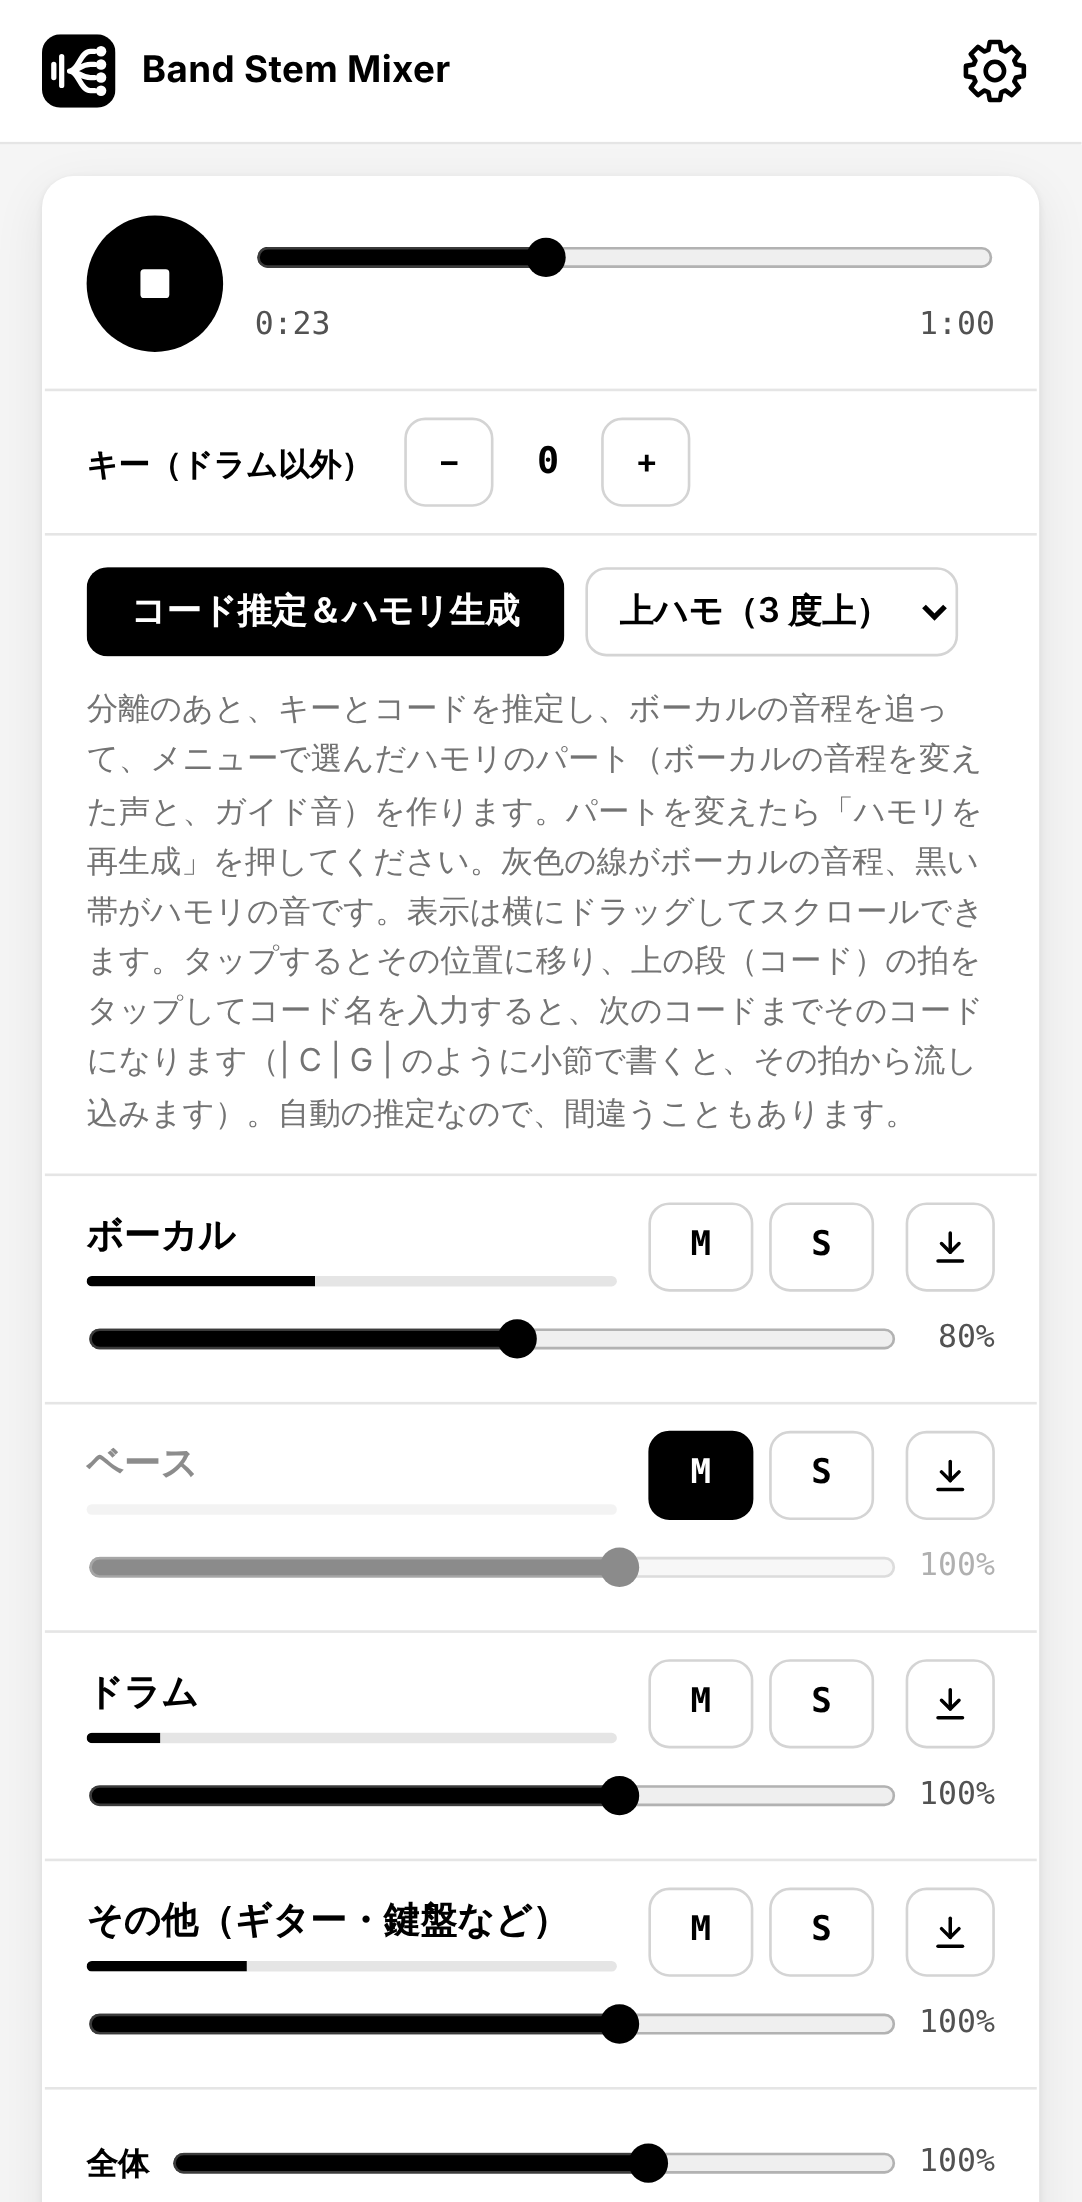
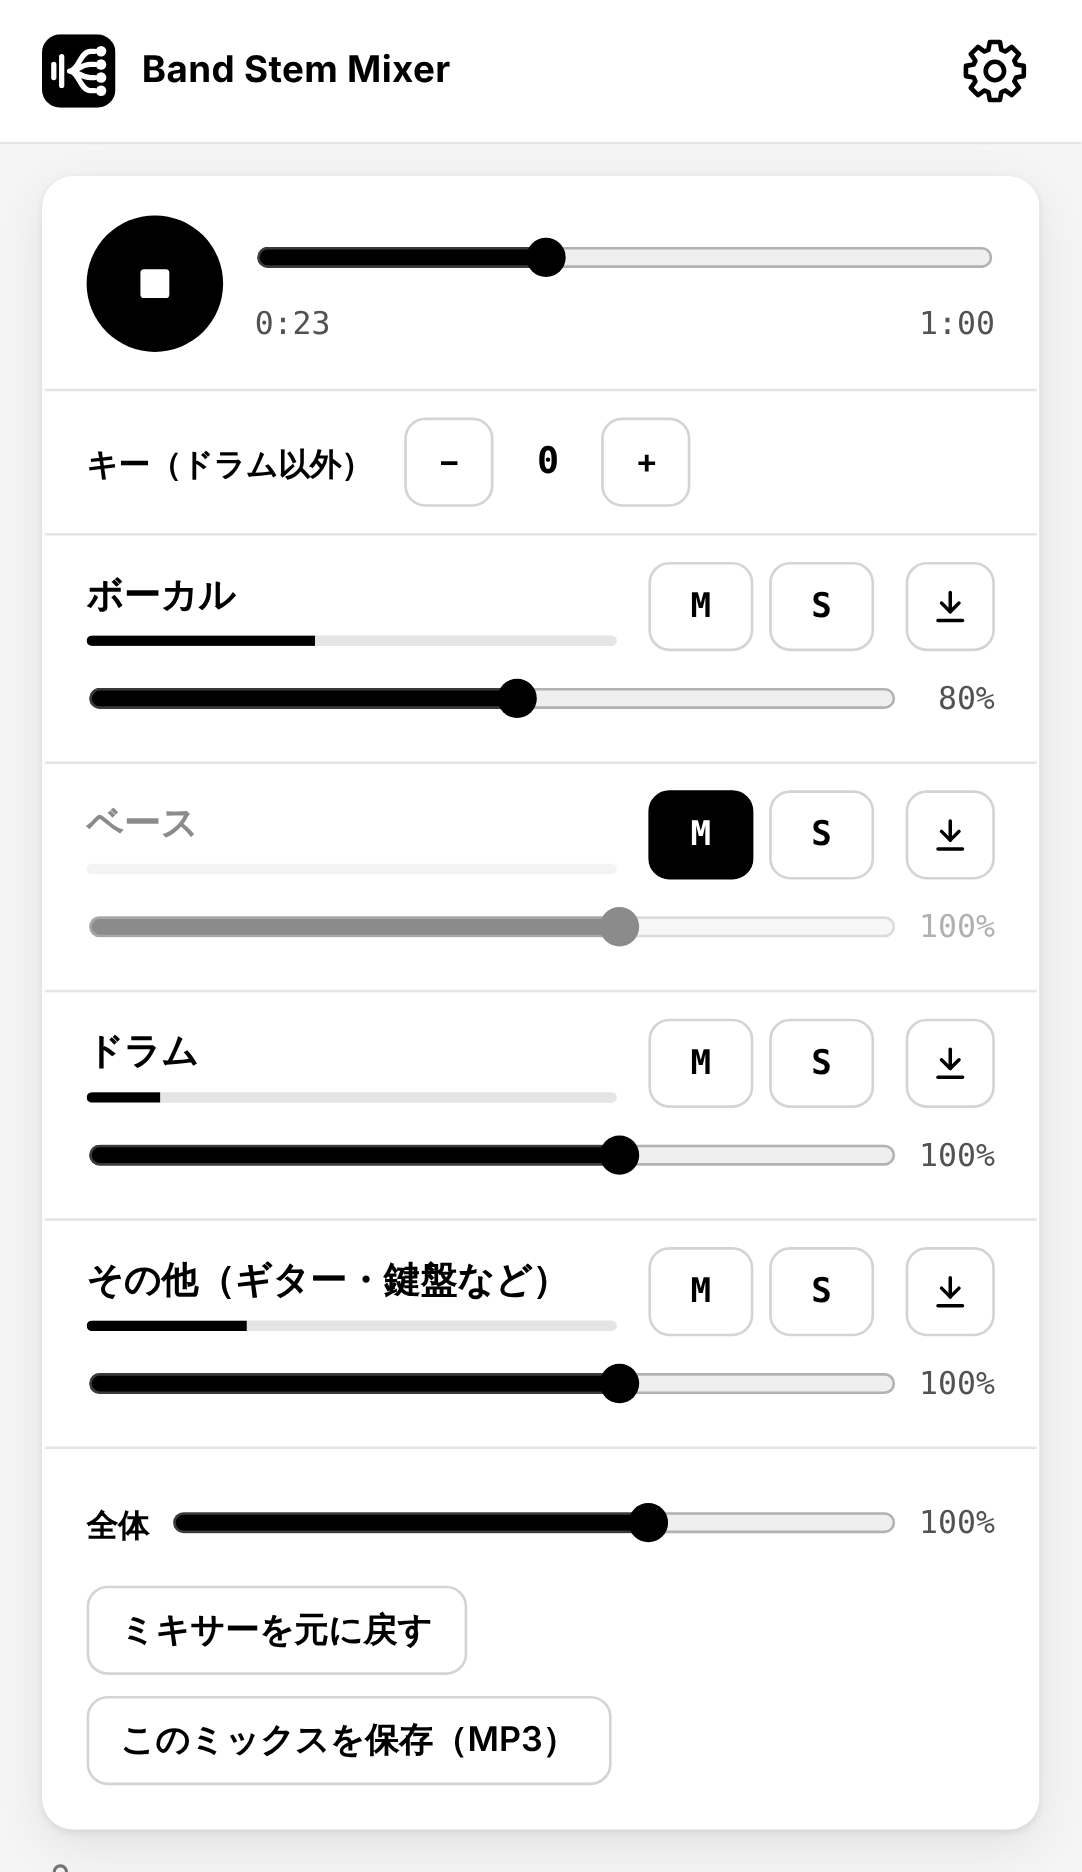
再生を ▶／❚❚ の切り替えと ■（停止して最初に戻る）に（WEBAPP_BASELINE §9-15）、日本語のキー操作の案内を 1〜4 に
Claude-Session: https://claude.ai/code/session_01FBcjAdSHZxa59AhVPsv9QX

diff --git a/public/bandstemmixer/ja/index.html b/public/bandstemmixer/ja/index.html
@@ -297,10 +297,11 @@
         </div>
         <div id="mixer" class="ghost" inert>
           <div class="transport">
-            <button class="play" id="playBtn" type="button" aria-label="再生" data-i18n-attr="aria-label:play">
+            <button class="play" id="playBtn" type="button" aria-label="再生" title="再生" data-i18n-attr="aria-label:play;title:play">
               <svg id="playIcon" width="22" height="22" viewBox="0 0 24 24" fill="currentColor" aria-hidden="true"><path d="M7 4.5v15l13-7.5z"></path></svg>
-              <svg id="pauseIcon" width="22" height="22" viewBox="0 0 24 24" fill="currentColor" aria-hidden="true" hidden><rect x="6" y="6" width="12" height="12" rx="1.5"></rect></svg>
+              <svg id="pauseIcon" width="22" height="22" viewBox="0 0 24 24" fill="currentColor" aria-hidden="true" hidden><rect x="6" y="5" width="4" height="14" rx="1"></rect><rect x="14" y="5" width="4" height="14" rx="1"></rect></svg>
             </button>
+            <button class="chip sq" id="stopBtn" type="button" aria-label="停止（最初に戻る）" title="停止（最初に戻る）" data-i18n-attr="aria-label:stop;title:stop"><svg width="14" height="14" viewBox="0 0 24 24" fill="currentColor" aria-hidden="true"><rect x="5" y="5" width="14" height="14" rx="1.5"></rect></svg></button>
             <div class="seek">
               <input type="range" id="seek" min="0" max="1" step="0.1" value="0" aria-label="再生位置" data-i18n-attr="aria-label:position" />
               <div class="time"><span id="timeNow">0:00</span><span id="timeEnd">0:00</span></div>
@@ -324,7 +325,7 @@
               <button class="chip save-btn" id="saveMix" type="button" data-i18n="mix.save">このミックスを保存（MP3）</button>
             </div>
           </div>
-          <p class="keys" data-i18n-html="keys"><kbd>Space</kbd> 再生・一時停止 · <kbd>1</kbd>〜<kbd>6</kbd> パートのミュート · <kbd>←</kbd> <kbd>→</kbd> 5 秒戻る・進む</p>
+          <p class="keys" data-i18n-html="keys"><kbd>Space</kbd> 再生・一時停止 · <kbd>Home</kbd> 停止 · <kbd>1</kbd>〜<kbd>4</kbd> パートのミュート · <kbd>←</kbd> <kbd>→</kbd> 5 秒戻る・進む</p>
         </div>
       </section>
     </div>
@@ -489,7 +490,8 @@
           "empty.title": "After separating, you can use this mixer",
           "empty": "Mute (M), solo (S), and set the volume of each part to play along with the band or learn a part by ear. Change the key and save MP3 files too.",
           "play": "Play",
-          "pause": "Stop",
+          "pause": "Pause",
+          "stop": "Stop (back to the start)",
           "position": "Position",
           "master": "Master",
           "mix.reset": "Reset mixer",
@@ -514,7 +516,7 @@
           "key.done": "Key changed ({n}).",
           "key.err": "The key could not be changed ({msg}).",
           "save.key": " (key {n})",
-          "keys": "<kbd>Space</kbd> play / pause · <kbd>1</kbd>–<kbd>4</kbd> mute a part · <kbd>←</kbd> <kbd>→</kbd> 5 seconds back / forward",
+          "keys": "<kbd>Space</kbd> play / pause · <kbd>Home</kbd> stop · <kbd>1</kbd>–<kbd>4</kbd> mute a part · <kbd>←</kbd> <kbd>→</kbd> 5 seconds back / forward",
           "foot": "Your song is separated on this device and never uploaded. No account needed.",
           "net.title.cellular": "You seem to be on mobile data",
           "net.title.saveData": "Data Saver is on",
@@ -605,7 +607,8 @@
           "empty.title": "分離すると、このミキサーが使えます",
           "empty": "パートごとのミュート（M）・ソロ（S）・音量で、自分のパートを消してバンドに合わせたり、耳コピしたりできます。キーの変更、MP3 での保存も。",
           "play": "再生",
-          "pause": "停止",
+          "pause": "一時停止",
+          "stop": "停止（最初に戻る）",
           "position": "再生位置",
           "master": "全体",
           "mix.reset": "ミキサーを元に戻す",
@@ -630,7 +633,7 @@
           "key.done": "キーを変えました（{n}）。",
           "key.err": "キーを変えられませんでした（{msg}）。",
           "save.key": "（キー {n}）",
-          "keys": "<kbd>Space</kbd> 再生・一時停止 · <kbd>1</kbd>〜<kbd>6</kbd> パートのミュート · <kbd>←</kbd> <kbd>→</kbd> 5 秒戻る・進む",
+          "keys": "<kbd>Space</kbd> 再生・一時停止 · <kbd>Home</kbd> 停止 · <kbd>1</kbd>〜<kbd>4</kbd> パートのミュート · <kbd>←</kbd> <kbd>→</kbd> 5 秒戻る・進む",
           "foot": "曲はこの端末の中で分離し、どこにもアップロードしません。登録も不要です。",
           "net.title.cellular": "モバイルデータ通信に接続しているようです",
           "net.title.saveData": "データセーバーがオンになっています",
@@ -1229,6 +1232,7 @@
         $("playIcon").toggleAttribute("hidden", on);
         $("pauseIcon").toggleAttribute("hidden", !on);
         $("playBtn").setAttribute("aria-label", t(on ? "pause" : "play"));
+        $("playBtn").title = t(on ? "pause" : "play");
         if (!on) meters.forEach(function (m) { m.style.width = "0"; });
       }
       function togglePlay() {
@@ -1257,7 +1261,14 @@
         $("seek").value = (pos / SR).toFixed(1);
         $("timeNow").textContent = fmtTime(pos / SR);
       }
+      // ■: stop and go back to the start (WEBAPP_BASELINE §9-15); ❚❚ keeps the position
+      function stopToStart() {
+        if (!stems) return;
+        stopPlayback();
+        seekTo(0);
+      }
       $("playBtn").addEventListener("click", togglePlay);
+      $("stopBtn").addEventListener("click", stopToStart);
       const seek = $("seek");
       seek.addEventListener("input", function () {
         seeking = true;
@@ -1565,6 +1576,9 @@
         if (e.key === " " && tag !== "BUTTON") {
           e.preventDefault();
           togglePlay();
+        } else if (e.key === "Home" && tag !== "INPUT") {
+          e.preventDefault();
+          stopToStart();
         } else if (/^[1-9]$/.test(e.key) && tracks[Number(e.key) - 1]) {
           const p = tracks[Number(e.key) - 1];
           store.parts[p.key].mute = !store.parts[p.key].mute;

diff --git a/public/bandstemmixer/index.html b/public/bandstemmixer/index.html
@@ -295,10 +295,11 @@
         </div>
         <div id="mixer" class="ghost" inert>
           <div class="transport">
-            <button class="play" id="playBtn" type="button" aria-label="Play" data-i18n-attr="aria-label:play">
+            <button class="play" id="playBtn" type="button" aria-label="Play" title="Play" data-i18n-attr="aria-label:play;title:play">
               <svg id="playIcon" width="22" height="22" viewBox="0 0 24 24" fill="currentColor" aria-hidden="true"><path d="M7 4.5v15l13-7.5z"></path></svg>
-              <svg id="pauseIcon" width="22" height="22" viewBox="0 0 24 24" fill="currentColor" aria-hidden="true" hidden><rect x="6" y="6" width="12" height="12" rx="1.5"></rect></svg>
+              <svg id="pauseIcon" width="22" height="22" viewBox="0 0 24 24" fill="currentColor" aria-hidden="true" hidden><rect x="6" y="5" width="4" height="14" rx="1"></rect><rect x="14" y="5" width="4" height="14" rx="1"></rect></svg>
             </button>
+            <button class="chip sq" id="stopBtn" type="button" aria-label="Stop" title="Stop" data-i18n-attr="aria-label:stop;title:stop"><svg width="14" height="14" viewBox="0 0 24 24" fill="currentColor" aria-hidden="true"><rect x="5" y="5" width="14" height="14" rx="1.5"></rect></svg></button>
             <div class="seek">
               <input type="range" id="seek" min="0" max="1" step="0.1" value="0" aria-label="Position" data-i18n-attr="aria-label:position" />
               <div class="time"><span id="timeNow">0:00</span><span id="timeEnd">0:00</span></div>
@@ -322,7 +323,7 @@
               <button class="chip save-btn" id="saveMix" type="button" data-i18n="mix.save">Save this mix (MP3)</button>
             </div>
           </div>
-          <p class="keys" data-i18n-html="keys"><kbd>Space</kbd> play / pause · <kbd>1</kbd>–<kbd>4</kbd> mute a part · <kbd>←</kbd> <kbd>→</kbd> 5 seconds back / forward</p>
+          <p class="keys" data-i18n-html="keys"><kbd>Space</kbd> play / pause · <kbd>Home</kbd> stop · <kbd>1</kbd>–<kbd>4</kbd> mute a part · <kbd>←</kbd> <kbd>→</kbd> 5 seconds back / forward</p>
         </div>
       </section>
     </div>
@@ -495,7 +496,8 @@
           "empty.title": "After separating, you can use this mixer",
           "empty": "Mute (M), solo (S), and set the volume of each part to play along with the band or learn a part by ear. Change the key and save MP3 files too.",
           "play": "Play",
-          "pause": "Stop",
+          "pause": "Pause",
+          "stop": "Stop (back to the start)",
           "position": "Position",
           "master": "Master",
           "mix.reset": "Reset mixer",
@@ -520,7 +522,7 @@
           "key.done": "Key changed ({n}).",
           "key.err": "The key could not be changed ({msg}).",
           "save.key": " (key {n})",
-          "keys": "<kbd>Space</kbd> play / pause · <kbd>1</kbd>–<kbd>4</kbd> mute a part · <kbd>←</kbd> <kbd>→</kbd> 5 seconds back / forward",
+          "keys": "<kbd>Space</kbd> play / pause · <kbd>Home</kbd> stop · <kbd>1</kbd>–<kbd>4</kbd> mute a part · <kbd>←</kbd> <kbd>→</kbd> 5 seconds back / forward",
           "foot": "Your song is separated on this device and never uploaded. No account needed.",
           "net.title.cellular": "You seem to be on mobile data",
           "net.title.saveData": "Data Saver is on",
@@ -611,7 +613,8 @@
           "empty.title": "分離すると、このミキサーが使えます",
           "empty": "パートごとのミュート（M）・ソロ（S）・音量で、自分のパートを消してバンドに合わせたり、耳コピしたりできます。キーの変更、MP3 での保存も。",
           "play": "再生",
-          "pause": "停止",
+          "pause": "一時停止",
+          "stop": "停止（最初に戻る）",
           "position": "再生位置",
           "master": "全体",
           "mix.reset": "ミキサーを元に戻す",
@@ -636,7 +639,7 @@
           "key.done": "キーを変えました（{n}）。",
           "key.err": "キーを変えられませんでした（{msg}）。",
           "save.key": "（キー {n}）",
-          "keys": "<kbd>Space</kbd> 再生・一時停止 · <kbd>1</kbd>〜<kbd>6</kbd> パートのミュート · <kbd>←</kbd> <kbd>→</kbd> 5 秒戻る・進む",
+          "keys": "<kbd>Space</kbd> 再生・一時停止 · <kbd>Home</kbd> 停止 · <kbd>1</kbd>〜<kbd>4</kbd> パートのミュート · <kbd>←</kbd> <kbd>→</kbd> 5 秒戻る・進む",
           "foot": "曲はこの端末の中で分離し、どこにもアップロードしません。登録も不要です。",
           "net.title.cellular": "モバイルデータ通信に接続しているようです",
           "net.title.saveData": "データセーバーがオンになっています",
@@ -1235,6 +1238,7 @@
         $("playIcon").toggleAttribute("hidden", on);
         $("pauseIcon").toggleAttribute("hidden", !on);
         $("playBtn").setAttribute("aria-label", t(on ? "pause" : "play"));
+        $("playBtn").title = t(on ? "pause" : "play");
         if (!on) meters.forEach(function (m) { m.style.width = "0"; });
       }
       function togglePlay() {
@@ -1263,7 +1267,14 @@
         $("seek").value = (pos / SR).toFixed(1);
         $("timeNow").textContent = fmtTime(pos / SR);
       }
+      // ■: stop and go back to the start (WEBAPP_BASELINE §9-15); ❚❚ keeps the position
+      function stopToStart() {
+        if (!stems) return;
+        stopPlayback();
+        seekTo(0);
+      }
       $("playBtn").addEventListener("click", togglePlay);
+      $("stopBtn").addEventListener("click", stopToStart);
       const seek = $("seek");
       seek.addEventListener("input", function () {
         seeking = true;
@@ -1571,6 +1582,9 @@
         if (e.key === " " && tag !== "BUTTON") {
           e.preventDefault();
           togglePlay();
+        } else if (e.key === "Home" && tag !== "INPUT") {
+          e.preventDefault();
+          stopToStart();
         } else if (/^[1-9]$/.test(e.key) && tracks[Number(e.key) - 1]) {
           const p = tracks[Number(e.key) - 1];
           store.parts[p.key].mute = !store.parts[p.key].mute;

diff --git a/public/bandstemmixer/ja/guide/index.html b/public/bandstemmixer/ja/guide/index.html
@@ -231,11 +231,11 @@
 
 <h2 id="mixer">ミキサー</h2>
 <figure class="shot">
-  <a href="/bandstemmixer/images/guide/ja-mixer.png"><img src="/bandstemmixer/images/guide/ja-mixer.png" alt="再生中のミキサー。停止ボタンと再生位置（1:00 のうち 0:21）、キーの − ＋、ボーカル（80%）・ベース（ミュート）・ドラム・その他（ギター・鍵盤など）の 4 行に、それぞれレベルメーター、M と S のボタン、フェーダー、保存ボタン。下に全体の音量、「ミキサーを元に戻す」「このミックスを保存（MP3）」。1〜10 の番号付き。" width="1548" height="1327" loading="lazy" decoding="async"></a>
+  <a href="/bandstemmixer/images/guide/ja-mixer.png"><img src="/bandstemmixer/images/guide/ja-mixer.png" alt="再生中のミキサー。一時停止と停止のボタンと再生位置（1:00 のうち 0:21）、キーの − ＋、ボーカル（80%）・ベース（ミュート）・ドラム・その他（ギター・鍵盤など）の 4 行に、それぞれレベルメーター、M と S のボタン、フェーダー、保存ボタン。下に全体の音量、「ミキサーを元に戻す」「このミックスを保存（MP3）」。1〜10 の番号付き。" width="1548" height="993" loading="lazy" decoding="async"></a>
   <figcaption>ベーシストの練習のように、ベースをミュート（M）し、ボーカルを 80% に下げたところ。</figcaption>
 </figure>
 <ol>
-  <li><b>再生・停止</b> – 再生中は ■ になります。もう一度押すと止まり、次の再生は止めた位置から始まります。</li>
+  <li><b>▶ 再生・❚❚ 一時停止</b> – 再生中は ❚❚ になります。押すと一時停止し、次の再生は止めた位置から始まります。隣の <b>■</b> は、止めて曲の最初に戻ります。</li>
   <li><b>再生位置</b> – ドラッグして曲の中を移動します。</li>
   <li><b>パートとレベル</b> – 名前の下のバーが、そのパートの音に合わせて動きます。</li>
   <li><b>M（ミュート）</b> – そのパートを消します。ここではベースをミュートしています。</li>
@@ -264,7 +264,7 @@
 
 <h2 id="phone">スマホ・タブレットで使う</h2>
 <figure class="shot phone">
-  <a href="/bandstemmixer/images/guide/ja-phone.png"><img src="/bandstemmixer/images/guide/ja-phone.png" alt="スマホでの Band Stem Mixer。再生ボタンと再生位置、キー、パートの行に M・S・保存ボタン、名前の下にフェーダー。" width="1082" height="2202" loading="lazy" decoding="async" style="max-width:541px"></a>
+  <a href="/bandstemmixer/images/guide/ja-phone.png"><img src="/bandstemmixer/images/guide/ja-phone.png" alt="スマホでの Band Stem Mixer。再生ボタンと再生位置、キー、パートの行に M・S・保存ボタン、名前の下にフェーダー。" width="1082" height="1872" loading="lazy" decoding="async" style="max-width:541px"></a>
   <figcaption>幅の狭い画面では、各パートのフェーダーが名前の下に並びます。</figcaption>
 </figure>
 <p>ミキサーはスマホでも同じように使えます。ただし分離にはメモリをたくさん使うので、スマホ・タブレットでは時間がかかり、曲の長さは 8 分までで、端末によっては最後まで分離できません。</p>
@@ -275,7 +275,8 @@
   <table class="text stack">
     <thead><tr><th scope="col">キー</th><th scope="col">操作</th></tr></thead>
     <tbody>
-      <tr><th scope="row"><code>Space</code></th><td>再生・停止</td></tr>
+      <tr><th scope="row"><code>Space</code></th><td>再生・一時停止</td></tr>
+      <tr><th scope="row"><code>Home</code></th><td>停止して最初に戻る</td></tr>
       <tr><th scope="row"><code>1</code>〜<code>4</code></th><td>ボーカル・ベース・ドラム・その他のミュートの切り替え</td></tr>
       <tr><th scope="row"><code>←</code> <code>→</code></th><td>5 秒戻る・進む</td></tr>
     </tbody>

diff --git a/public/bandstemmixer/guide/index.html b/public/bandstemmixer/guide/index.html
@@ -231,11 +231,11 @@
 
 <h2 id="mixer">The mixer</h2>
 <figure class="shot">
-  <a href="/bandstemmixer/images/guide/en-mixer.png"><img src="/bandstemmixer/images/guide/en-mixer.png" alt="The mixer while playing: the stop button and the position bar at 0:21 of 1:00, the key control, four rows for Vocals (at 80%), Bass (muted), Drums, and Other (guitar, keys…), each with a level meter, M and S buttons, a fader, and a save button, and under them the Master fader, Reset mixer, and Save this mix (MP3). Numbers 1 to 10 mark the controls." width="1548" height="955" loading="lazy" decoding="async"></a>
+  <a href="/bandstemmixer/images/guide/en-mixer.png"><img src="/bandstemmixer/images/guide/en-mixer.png" alt="The mixer while playing: the pause and stop buttons and the position bar at 0:21 of 1:00, the key control, four rows for Vocals (at 80%), Bass (muted), Drums, and Other (guitar, keys…), each with a level meter, M and S buttons, a fader, and a save button, and under them the Master fader, Reset mixer, and Save this mix (MP3). Numbers 1 to 10 mark the controls." width="1548" height="955" loading="lazy" decoding="async"></a>
   <figcaption>Here the bass is muted (M), as a bass player would for practice, and the vocals are turned down to 80%.</figcaption>
 </figure>
 <ol>
-  <li><b>Play / Stop</b> – The button shows ■ while it plays. Press it again to stop; the next play starts from where it stopped.</li>
+  <li><b>▶ Play / ❚❚ Pause</b> – Shows ❚❚ while it plays. Press it to pause; the next play starts from where it paused. Next to it, <b>■</b> stops and goes back to the start.</li>
   <li><b>Position</b> – Drag to move through the song.</li>
   <li><b>The part and its level</b> – The bar under the name moves with the sound of that part.</li>
   <li><b>M (mute)</b> – Silences that part. Here the bass is muted.</li>
@@ -275,7 +275,8 @@
   <table class="text stack">
     <thead><tr><th scope="col">Key</th><th scope="col">Action</th></tr></thead>
     <tbody>
-      <tr><th scope="row"><code>Space</code></th><td>Play / stop</td></tr>
+      <tr><th scope="row"><code>Space</code></th><td>Play / pause</td></tr>
+      <tr><th scope="row"><code>Home</code></th><td>Stop and go back to the start</td></tr>
       <tr><th scope="row"><code>1</code>–<code>4</code></th><td>Mute or unmute vocals, bass, drums, other</td></tr>
       <tr><th scope="row"><code>←</code> <code>→</code></th><td>5 seconds back / forward</td></tr>
     </tbody>
